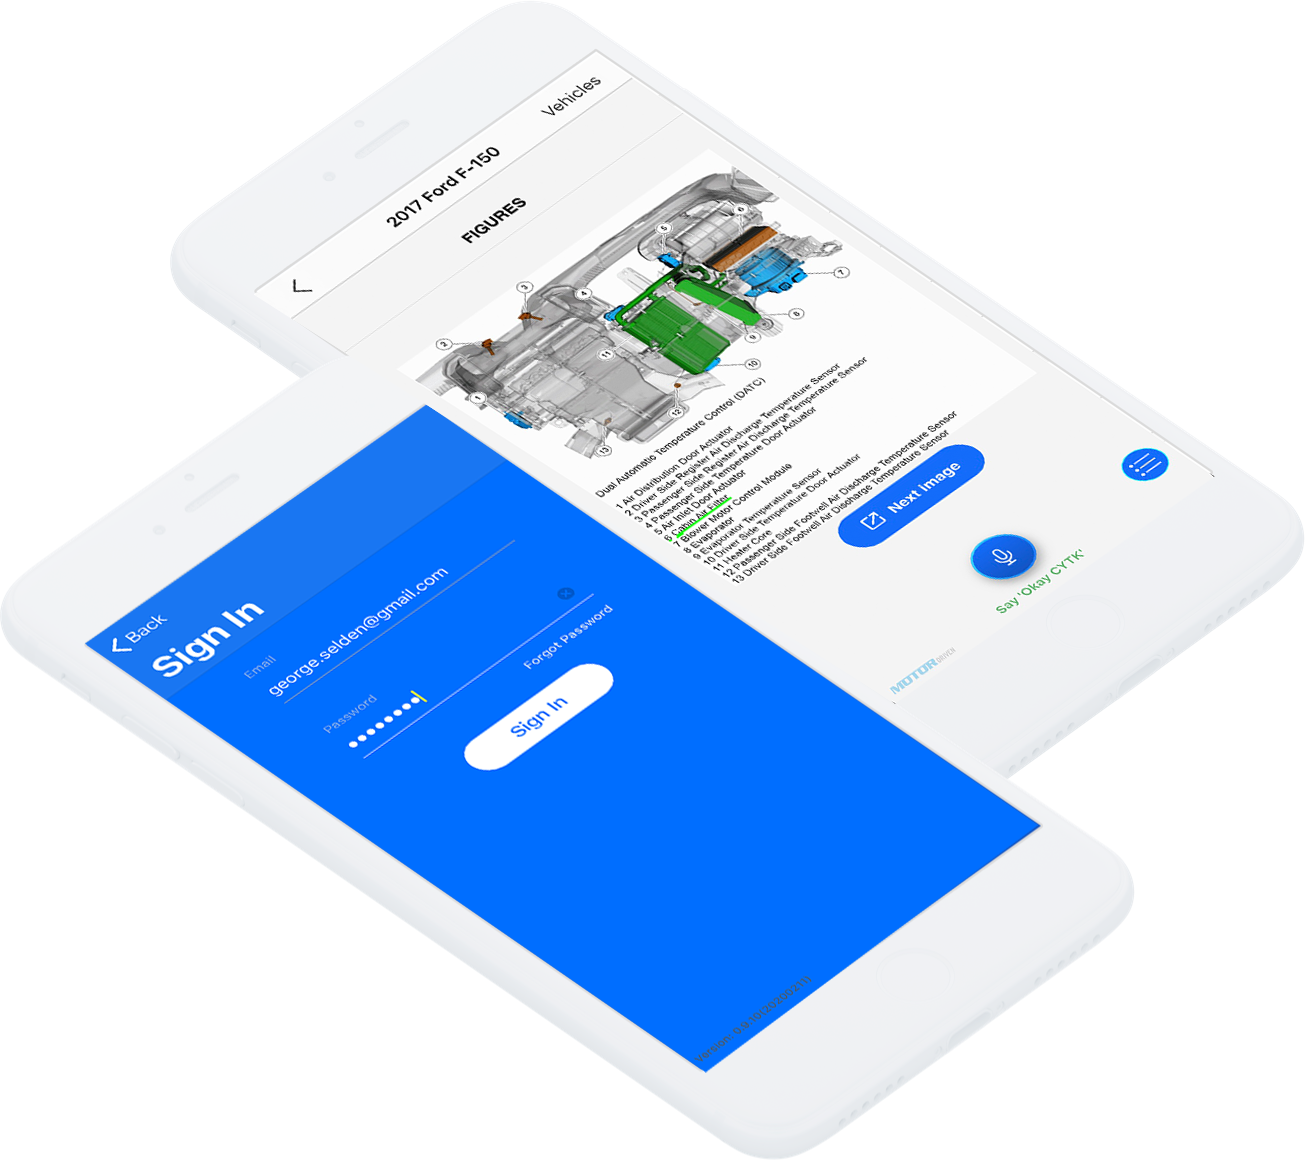
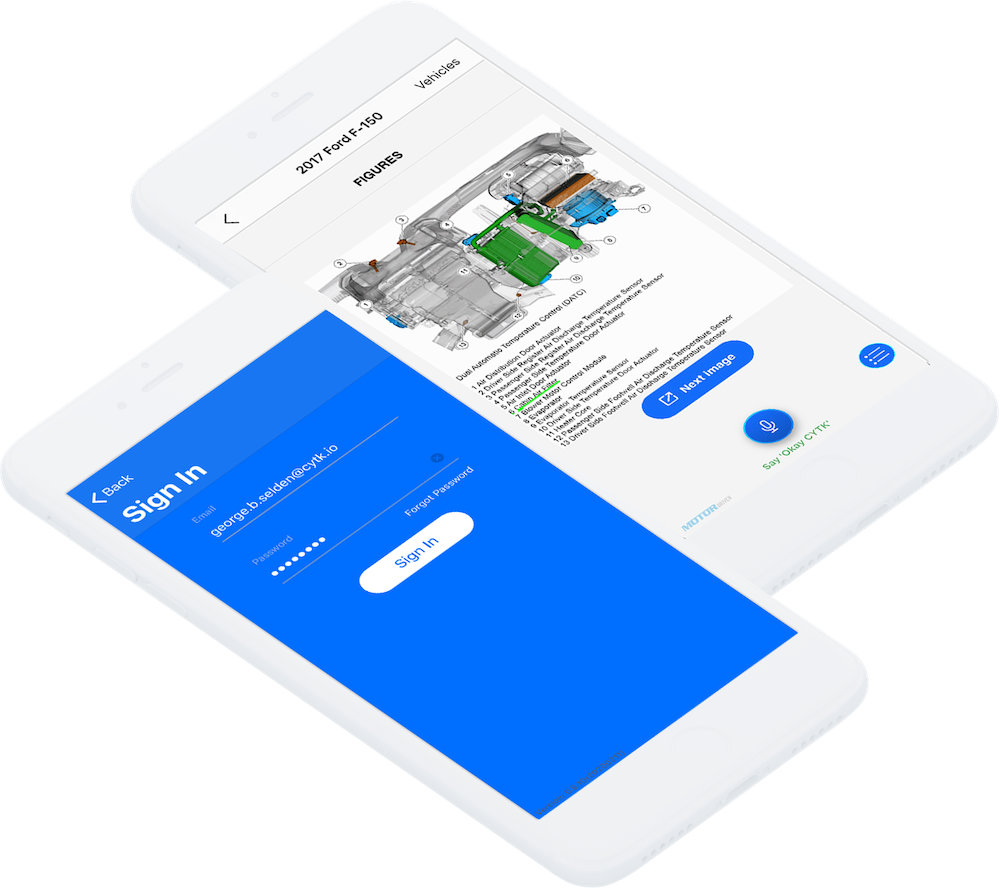
hero and form
Updated hero image and did some form fixing.

diff --git a/index.html b/index.html
@@ -64,8 +64,14 @@
 
 .modal-content {
     margin: 15% auto;
-    margin-top: 25%;
+    /* margin-top: 25%; */
     border-radius:5px
+}
+
+/* Extra small devices (phones, 600px and down) */
+@media only screen and (max-width: 600px) {
+  .modal-content {
+    margin-top: 25%;
 }
 
 .contact-email {
@@ -79,8 +85,9 @@
 .mdl-card__actions { background-color: rgba(222, 222, 222, 0.25); }   
 .mdl-textfield, .mdl-textfield__input { 
     padding: 10px 0;
-}                 
+}               
 </style>
+
 </head>
 <body>
 <div class="mdl-layout mdl-js-layout mdl-layout--fixed-header">
@@ -98,7 +105,7 @@
                     <ul>
                         <li><a href="#product">Product</a></li>
                         <li><a href="#value">Value</a></li>
-                        <li><a href="#invest">Invest</a></li>
+                        <li><a href="#market">Market</a></li>
                         <li><a href="#team">Team</a></li>
                         <li><a href="#contact">Contact</a></li>
                     </ul>
@@ -138,7 +145,7 @@
                     <ul>
                         <li><a href="#product">Product</a></li>
                         <li><a href="#value">Value</a></li>
-                        <li><a href="#invest">Invest</a></li>
+                        <li><a href="#market">Market</a></li>
                         <li><a href="#team">Team</a></li>
                         <li><a href="#contact">Contact</a></li>
                     </ul>
@@ -158,7 +165,7 @@
         <ul class="mobile-menu">
             <li><a href="#product">Product</a></li>
             <li><a href="#value">Value</a></li>
-            <li><a href="#invest">Invest</a></li>
+            <li><a href="#market">Market</a></li>
             <li><a href="#team">Team</a></li>
             <li><a href="#contact">Contact</a></li>
         </ul>
@@ -265,7 +272,7 @@
                 <div class="content-header">
                     <h2 class="content-title">Value proposition</h2>
                     <h3 class="content-subtitle">
-                        Real-time access to OEM repair content right at the vehicle.
+                        Real time access to OEM repair content right at the vehicle.
                     </h3>
                 </div>
 
@@ -275,15 +282,15 @@
                         <ul class="feature-items">
                             <li class="feature-item">
                                 <h4>Save time</h4>
-                                <p>Easy real-time access to vehicle specific OEM repair content right at the vehicle.</p>
+                                <p>Easy, immediate access to vehicle specific OEM repair content right at the vehicle.</p>
                             </li>
                             <li class="feature-item">
                                 <h4>Expand human capability</h4>
-                                <p>Seamless, real-time access to key vehicle information and procedures will improve the capability of technicians.</p>
+                                <p>Access to key vehicle information and procedures at the vehicle will improve the capability of technicians.</p>
                             </li>
                             <li class="feature-item">
                                 <h4>Improve repair knowledge & consistency</h4>
-                                <p>Providing easy real-time access to detailed repair procedures, parts and labor estimates, illustrations and vehicle specifications will drive consistent use and improve repair quality.</p>
+                                <p>Providing easy access to detailed repair procedures, parts and labor estimates, illustrations and vehicle specifications will drive consistent use and improve repair quality.</p>
                             </li>
                         </ul>
                     </div>
@@ -315,7 +322,7 @@
                             </li>
                             <li class="feature-item">
                                 <h4>Employee satisfaction</h4>
-                                <p>Making the human interaction with technology more seamless will expand capability and improve satisfaction within the work environment.</p>
+                                <p>Making human interaction with technology seamless will expand capability and improve satisfaction within the work environment.</p>
                             </li>
                             <li class="feature-item">
                                 <h4>Customer satisfaction & loyalty</h4>
@@ -327,7 +334,7 @@
             </div>
         </section>
 
-        <section class="a-vast-market" id="invest">
+        <section class="a-vast-market" id="market">
             <div class="container">
                 <div class="mdl-grid mdl-grid--no-spacing">
                     <div class="mdl-cell mdl-cell--6-col mdl-cell--5-col-desktop mdl-cell--1-offset-tablet mdl-cell--1-offset-desktop content-tiled-images">
@@ -404,6 +411,12 @@
                     </div>
 
                     <div class="person">
+                        <img class="person-photo" src="images/Headshot-PatrickWienkam.jpg"/>
+                        <h4 class="person-name">Patrick Weinkam<a href="https://www.linkedin.com/in/patrick-weinkam-6b579513/"><img src="images/LinkedIn.svg"/></a></h4>
+                        <p class="person-role">Co-Founder | CTO: Cloud, Backend, Data Science</p>
+                    </div>
+
+                    <div class="person">
                         <img class="person-photo" src="images/Headshot-DavidZiegler.jpg"/>
                         <h4 class="person-name">David Ziegler<a href="https://www.linkedin.com/in/dave-ziegler-automotive-consultant-a37798149/"><img src="images/LinkedIn.svg"/></a></h4>
                         <p class="person-role">VP of Operations, Customer Success</p>
@@ -416,12 +429,6 @@
                     </div>
 
                     <div class="person">
-                        <img class="person-photo" src="images/Headshot-PatrickWienkam.jpg"/>
-                        <h4 class="person-name">Patrick Weinkam<a href="https://www.linkedin.com/in/patrick-weinkam-6b579513/"><img src="images/LinkedIn.svg"/></a></h4>
-                        <p class="person-role">Co-Founder | CTO: Cloud, Backend, Data Science</p>
-                    </div>
-
-                    <div class="person">
                         <img class="person-photo" src="images/Headshot-MartinGregory.jpg"/>
                         <h4 class="person-name">Martin Gregory<a href="https://www.linkedin.com/in/martingregory/"><img src="images/LinkedIn.svg"/></a></h4>
                         <p class="person-role">Co-Founder | Director of Software Development: iOS</p>
@@ -430,7 +437,7 @@
                     <div class="person">
                         <img class="person-photo" src="images/Headshot-KateSchneider.jpg"/>
                         <h4 class="person-name">Kate Schneider<a href="https://www.linkedin.com/in/kateschneider707/"><img src="images/LinkedIn.svg"/></a></h4>
-                        <p class="person-role">Director of Product, Marketing</p>
+                        <p class="person-role">Director of Product</p>
                     </div>
 
                 </div>
@@ -507,56 +514,50 @@
          aria-describedby="email-helper-text" required>
                                             <label class="mdl-textfield__label" for="mdl-email">E-mail</label>
                                         </div>
-                                        <div class="mdc-text-field-helper-line">
-                                          <small id="email-helper-text" class="mdc-text-field-helper-text" aria-hidden="true">
-                                            We'll never share your email with anyone else.
-                                          </small>
-                                        </div>
                                         <div class="mdl-textfield mdl-js-textfield mdl-textfield--floating-label">
                                             <input class="mdl-textfield__input" type="text" id="mdl-phone" name="phone">
                                             <label class="mdl-textfield__label" for="mdl-phone">Phone</label>
                                             <span class="mdl-textfield__error">Input is not a number!</span>
                                         </div>
-                                        <div class="mdl-select mdl-js-textfield mdl-textfield--floating-label">
-                                            <label class="mdl-select__label" for="mdl-interest">Interest:</label>
-                                            <small id="emailHelp" class="form-text text-muted">What aspect of CYTK interests you?</small>
-                                            <select class="mdl-select__input" id="mdl-interest" name="interest">
-                                                <option value="null">Select Choice</option>
-                                                <option value="pilot">Pilot Program</option>
-                                                <option value="dealer">Dealership</option>
-                                                <option value="indy">Independent Repair Shop</option>
-                                                <option value="mechanic">Mechanic</option>
-                                                <option value="investor">Investor</option>
+                                        <div class="mdl-textfield mdl-js-textfield mdl-textfield--floating-label">
+                                            <select class="mdl-textfield__input" id="interest" name="interest">
+                                              <option></option>
+                                              <option value="pilot">Pilot Program</option>
+                                              <option value="dealer">Dealership</option>
+                                              <option value="indy">Independent Repair Shop</option>
+                                              <option value="mechanic">Mechanic</option>
+                                              <option value="investor">Investor</option>
                                             </select>
-                                        </div>
+                                            <label class="mdl-textfield__label" for="interest">Interest</label>
+                                          </div>
                                         <div class="mdl-textfield mdl-js-textfield mdl-textfield--floating-label">
                                             <label class="mdl-textfield__label" for="mdl-source">How did you hear about us?</label>
                                             <input type="text" class="mdl-textfield__input" id="mdl-source" name="source">
                                         </div>
-                                        <div class="mdl-textarea">
-                                            <label class="mdl-textarea__label" for="mdl-message">Message</label>
-                                            <textarea class="mdl-textarea__input" id="mdl-message" rows="4" cols="40" name="message"></textarea>
+
+                                        <div class="mdl-textfield mdl-js-textfield">
+                                            <textarea class="mdl-textfield__input" type="text" rows= "4" id="mdl-message" name="message"></textarea>
+                                            <label class="mdl-textfield__label" for="mdl-message">Message</label>
                                         </div> 
 
-                                        <div class="mdl-card__actions mdl-card--border">
+                                        <div class="mdl-card__actions">
                                             <button class="mdl-button mdl-button--colored mdl-js-button">
                                                 Submit
                                             </button>
                                         </div>
+                                        <span style="display: none; margin: 15px;" class="mdl-chip">
+                                            <span id="js-form-response" class="mdl-chip__text"></span>
+                                        </span>
+                                        <div class="mdl-card__menu">
+                                            <button class="mdl-button mdl-button--icon mdl-js-button mdl-custom-close">
+                                              <span class="material-icons">close</span>
+                                            </button>
+                                        </div>
                                     </form>
                                 </div>
-                                <span style="display: none; margin: 15px;" class="mdl-chip">
-                                    <span id="js-form-response" class="mdl-chip__text"></span>
-                                </span>
-                                <div class="mdl-card__menu">
-                                    <button class="mdl-button mdl-button--icon mdl-js-button mdl-custom-close">
-                                      <span class="material-icons">close</span>
-                                    </button>
-                                </div>
                             </div>
-
                         </div>
-                        <!-- end modal form -->
+                    </div>
 
                         <div class="contact-socials">
                             <a href="https://www.linkedin.com/company/cytk/" target="_blank">
@@ -566,10 +567,9 @@
                                 <img src="images/Contact-Twitter.svg" alt="Twitter" />
                             </a>
                         </div>
-                    </div>
 
+                    </div>
                 </div>
-            </div>
 
             <div class="baseplate">
                 <div class="container">
